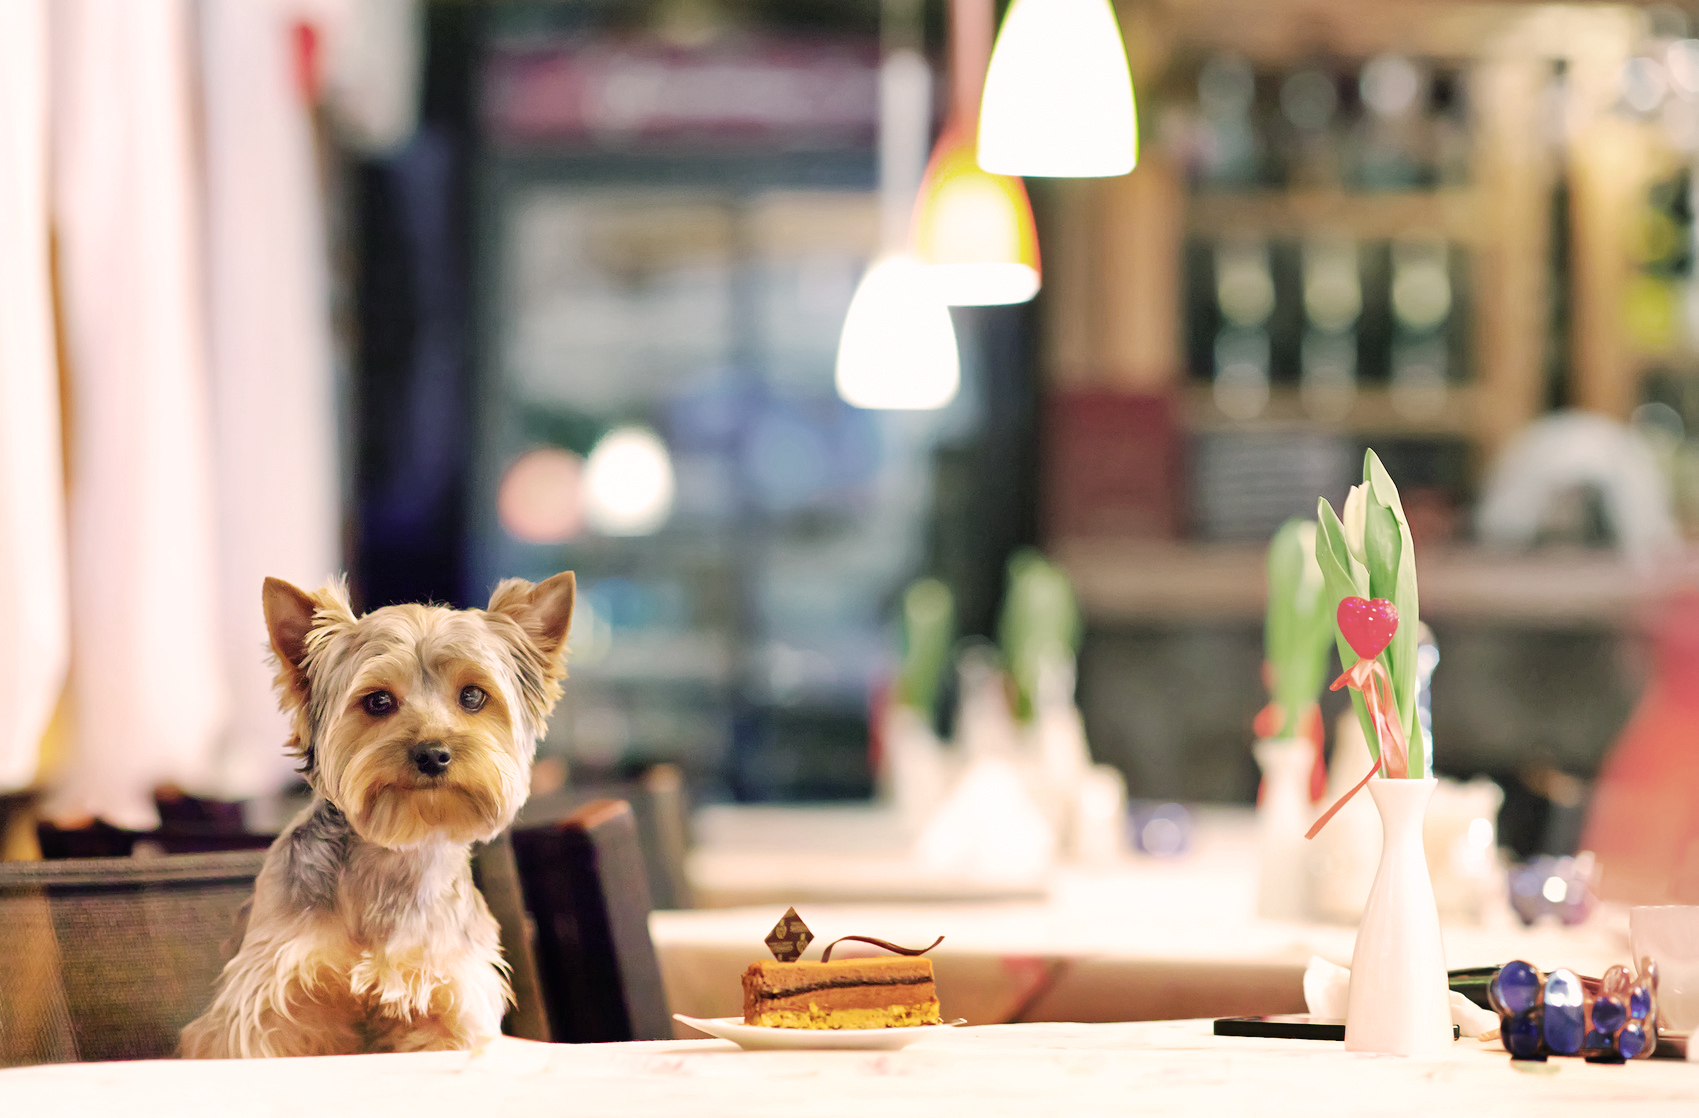
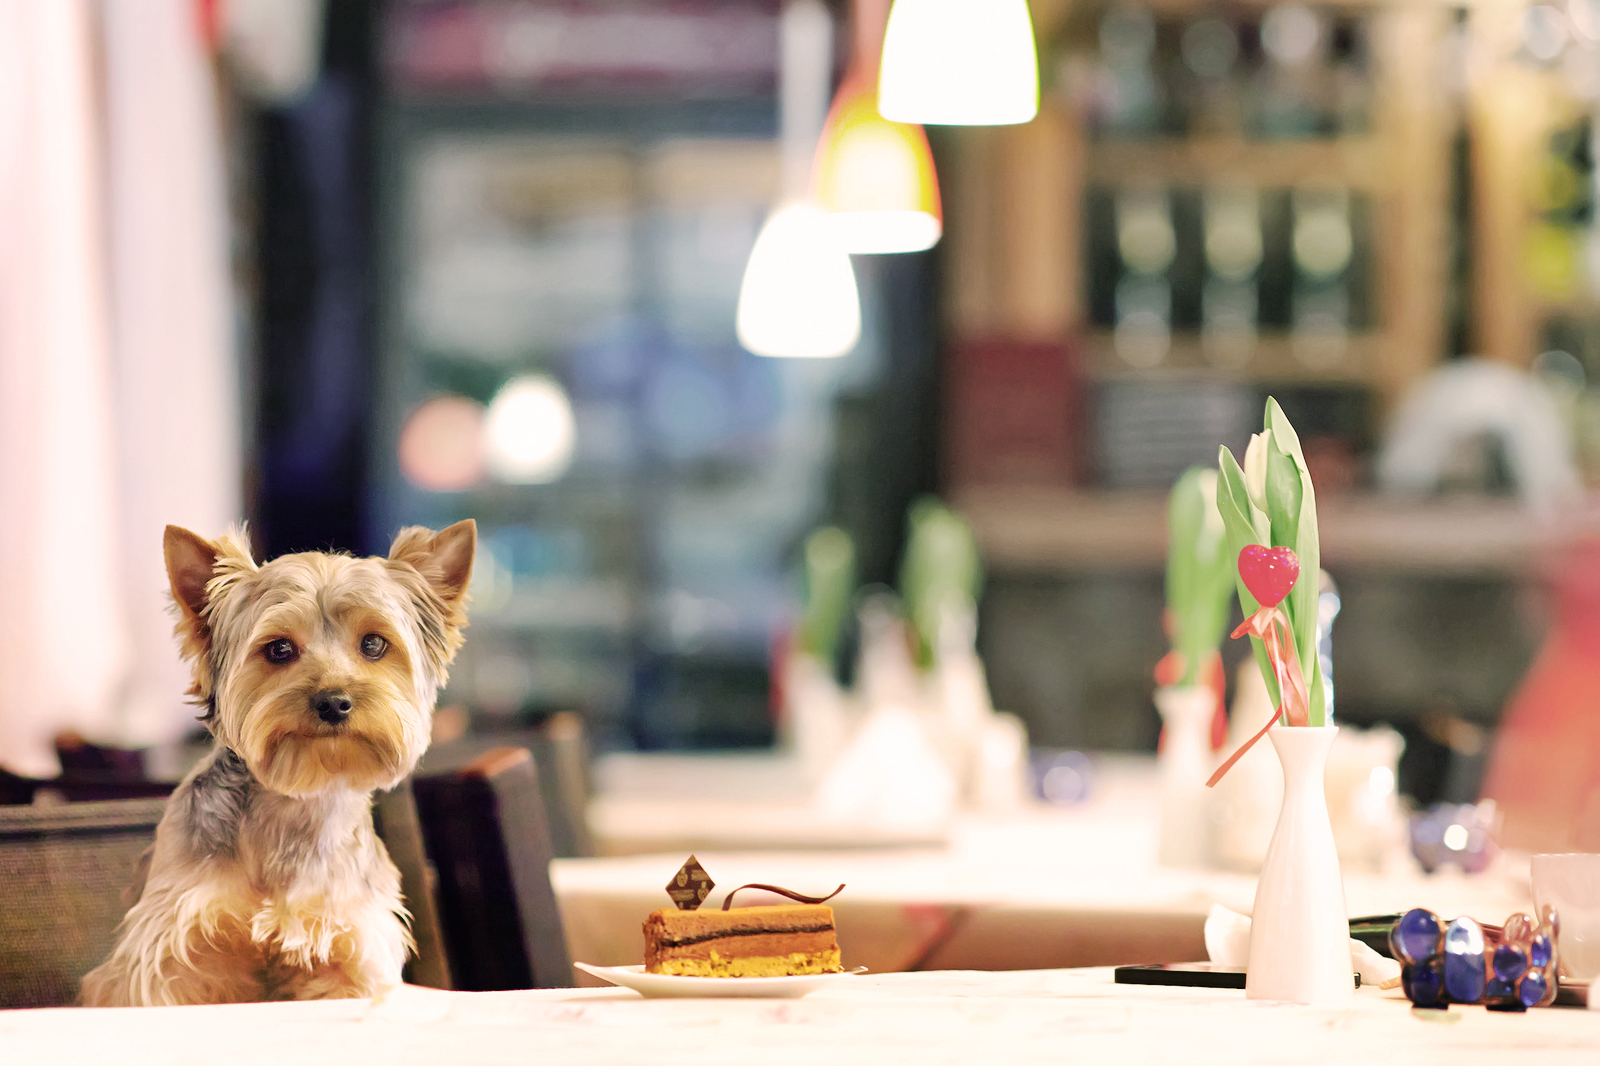
Responsinve element code included. Page elements should change depending on screen size.

diff --git a/css/grids.css b/css/grids.css
@@ -25,41 +25,14 @@ grids.css
 	padding: 0;
 }
 
-.grid-col-1of6 {
-	width: 16.666%;
-}
 
-.grid-col-5of6 {
-	width: 83.333s%;
-}
 
-.grid-col-1of3 {
-	width: 33.333%;
-}
-.grid-col-1of4 {
-	width:25%;
-}
-.grid-col-2of3 {
-	width: 66.666%;
-}
-
-.grid-col-6of6 {
+.grid-col-1of6, .grid-col-5of6, .grid-col-6of6, .grid-col-1of3, .grid-col-2of3, .grid-col-1of4, .grid-col-3of4, .grid-col-4of5 {
 	width: 100%;
 	padding-bottom: 2rem;
 }
 
-.grid-col-1of4 {
-	width: 25%;
-}
 
-.grid-col-3of4 {
-	width: 60%;
-}
-
-.grid-col-4of5 {
-	width: 80%;
-	padding-left: 2rem;
-}
 
 /*
 .grid-col-indexImg{
@@ -78,24 +51,54 @@ grids.css
 }
 
 
-/* making that navigation boxes are same length */
+/* making that navigation boxes are same length 
 .grid-col-1of6 > .nav-main-item {
 	width: 100%;
 }
-
-
-
-/* 
-	
-added for reservation
-
 */
 
-.grid-col-1of2 {
-	width:50%;
+/* Extra space at top so other elements are not overlapped with navigation bar*/
+body {
+	padding-top: 3.5rem;
 }
-@media  (max-width: 60rem) {
-	.grid-col-1of2 {
-		width:100%;
-	}
+
+/*for screen resizing*/
+@media  (min-width: 30rem) {
+
 }	
+
+@media (min-width: 60rem) {
+	.grid-col-1of2 {
+	width:50%;
+	}
+
+	.grid-col-1of4 {
+		width: 25%;
+	}
+
+	.grid-col-3of4 {
+		width: 60%;
+	}
+
+	.grid-col-4of5 {
+		width: 80%;
+		padding-left: 2rem;
+	}
+
+	.grid-col-1of6 {
+		width: 16.666%;
+	}
+
+	.grid-col-5of6 {
+		width: 83.333s%;
+	}
+
+	.grid-col-1of3 {
+		width: 33.333%;
+	}
+
+	.grid-col-2of3 {
+		width: 66.666%;
+	}
+
+}

diff --git a/css/main.css b/css/main.css
@@ -18,6 +18,9 @@
 body {
 	font-family: 'dosislight';
 	line-height: 150%;
+
+	/*prevent horizontal scroll*/
+	overflow-x: hidden;
 	/*padding: 3em;*/
 }
 
@@ -29,24 +32,28 @@ h1 {
 h2 {
 	font-family: 'Allan', sans-serif;
 	font-style: bold;
-	font-size: 1.5em;
-
+	font-size: 2.5em;
 }
 
 h3 {
 	font-family: 'Allan', sans-serif;
 	font-style: bold;
 	font-size: 1.5em;
-
 }
-/*
-figure {
-	font-style: italic;
-} */
+
 
 ul {
 	list-style: none;
 }
+
+img {
+	height: auto;
+	max-width: 100%;
+}
+
+figure {
+	margin: 0;
+} 
 
 
 /*text field*/
@@ -88,10 +95,26 @@ MAIN NAVIGATION MENU, IMAGE, BODY CONTENT
 .contentBody{
 	padding-left: 3rem;
 	padding-right: 3rem;
-	padding-top: 1rem;
+	padding-top: 1.5rem;
 }
 
+.full-width {
+	width: 100vw;
+	position: relative;
+	left: 30%;
+	right: 30%;
+	margin-left: -30vw;
+	margin-right: -30vw;
+	margin-bottom: -1vw; /* for bottom white space */
+}
 
+@media (min-width: 40em) {
+	.full-width {
+		width: 100vw;
+	}
+}
+
+/*
 #fullbleed {
 	position: fixed;
 	top: -50%;
@@ -99,11 +122,12 @@ MAIN NAVIGATION MENU, IMAGE, BODY CONTENT
 
 	z-index: 0;
 
-	/* aspect ratio */
+	aspect ratio 
 	min-width: 200%;
 	max-width: 200%;
-}
+} */
 
+/*
 #fullbleed img {
 	position: absolute;
 	top: 0;
@@ -114,7 +138,7 @@ MAIN NAVIGATION MENU, IMAGE, BODY CONTENT
 	margin: auto;
 	min-width: 50%;
 	min-height: 50%;
-}
+} */
 
 .nav-main {
 	/*position: fixed;*/

diff --git a/index.html b/index.html
@@ -70,13 +70,16 @@ Used style guide template (Style_guide.html) from canvas.sfu.ca
 
     <!-- SLIDESHOW BOX HERE -->
     <div class="grid-row">
-      <section id="slideshow" class="grid-col-indexImg">
-        <figure> 
-          <img src="img/dog-cafe-mainpage.jpg"  id="fullbleed" alt="A dog inside the cafe">
+      <section id="slideshow">
+
+        <figure class="full-width"> 
+          <img src="img/dog-cafe-mainpage.jpg" alt="A dog inside the cafe">
         </figure>
-        <figure> 
-          <img src="img/catandman-bowtie.jpg"  id="fullbleed" alt="A dog inside the cafe">
+
+        <figure class="full-width"> 
+          <img src="img/catandman-bowtie.jpg" alt="A cat and a server">
         </figure>
+
       </section>
 
       <!-- COMPANY EVENTS, NEWS AND POST SECTION -->
